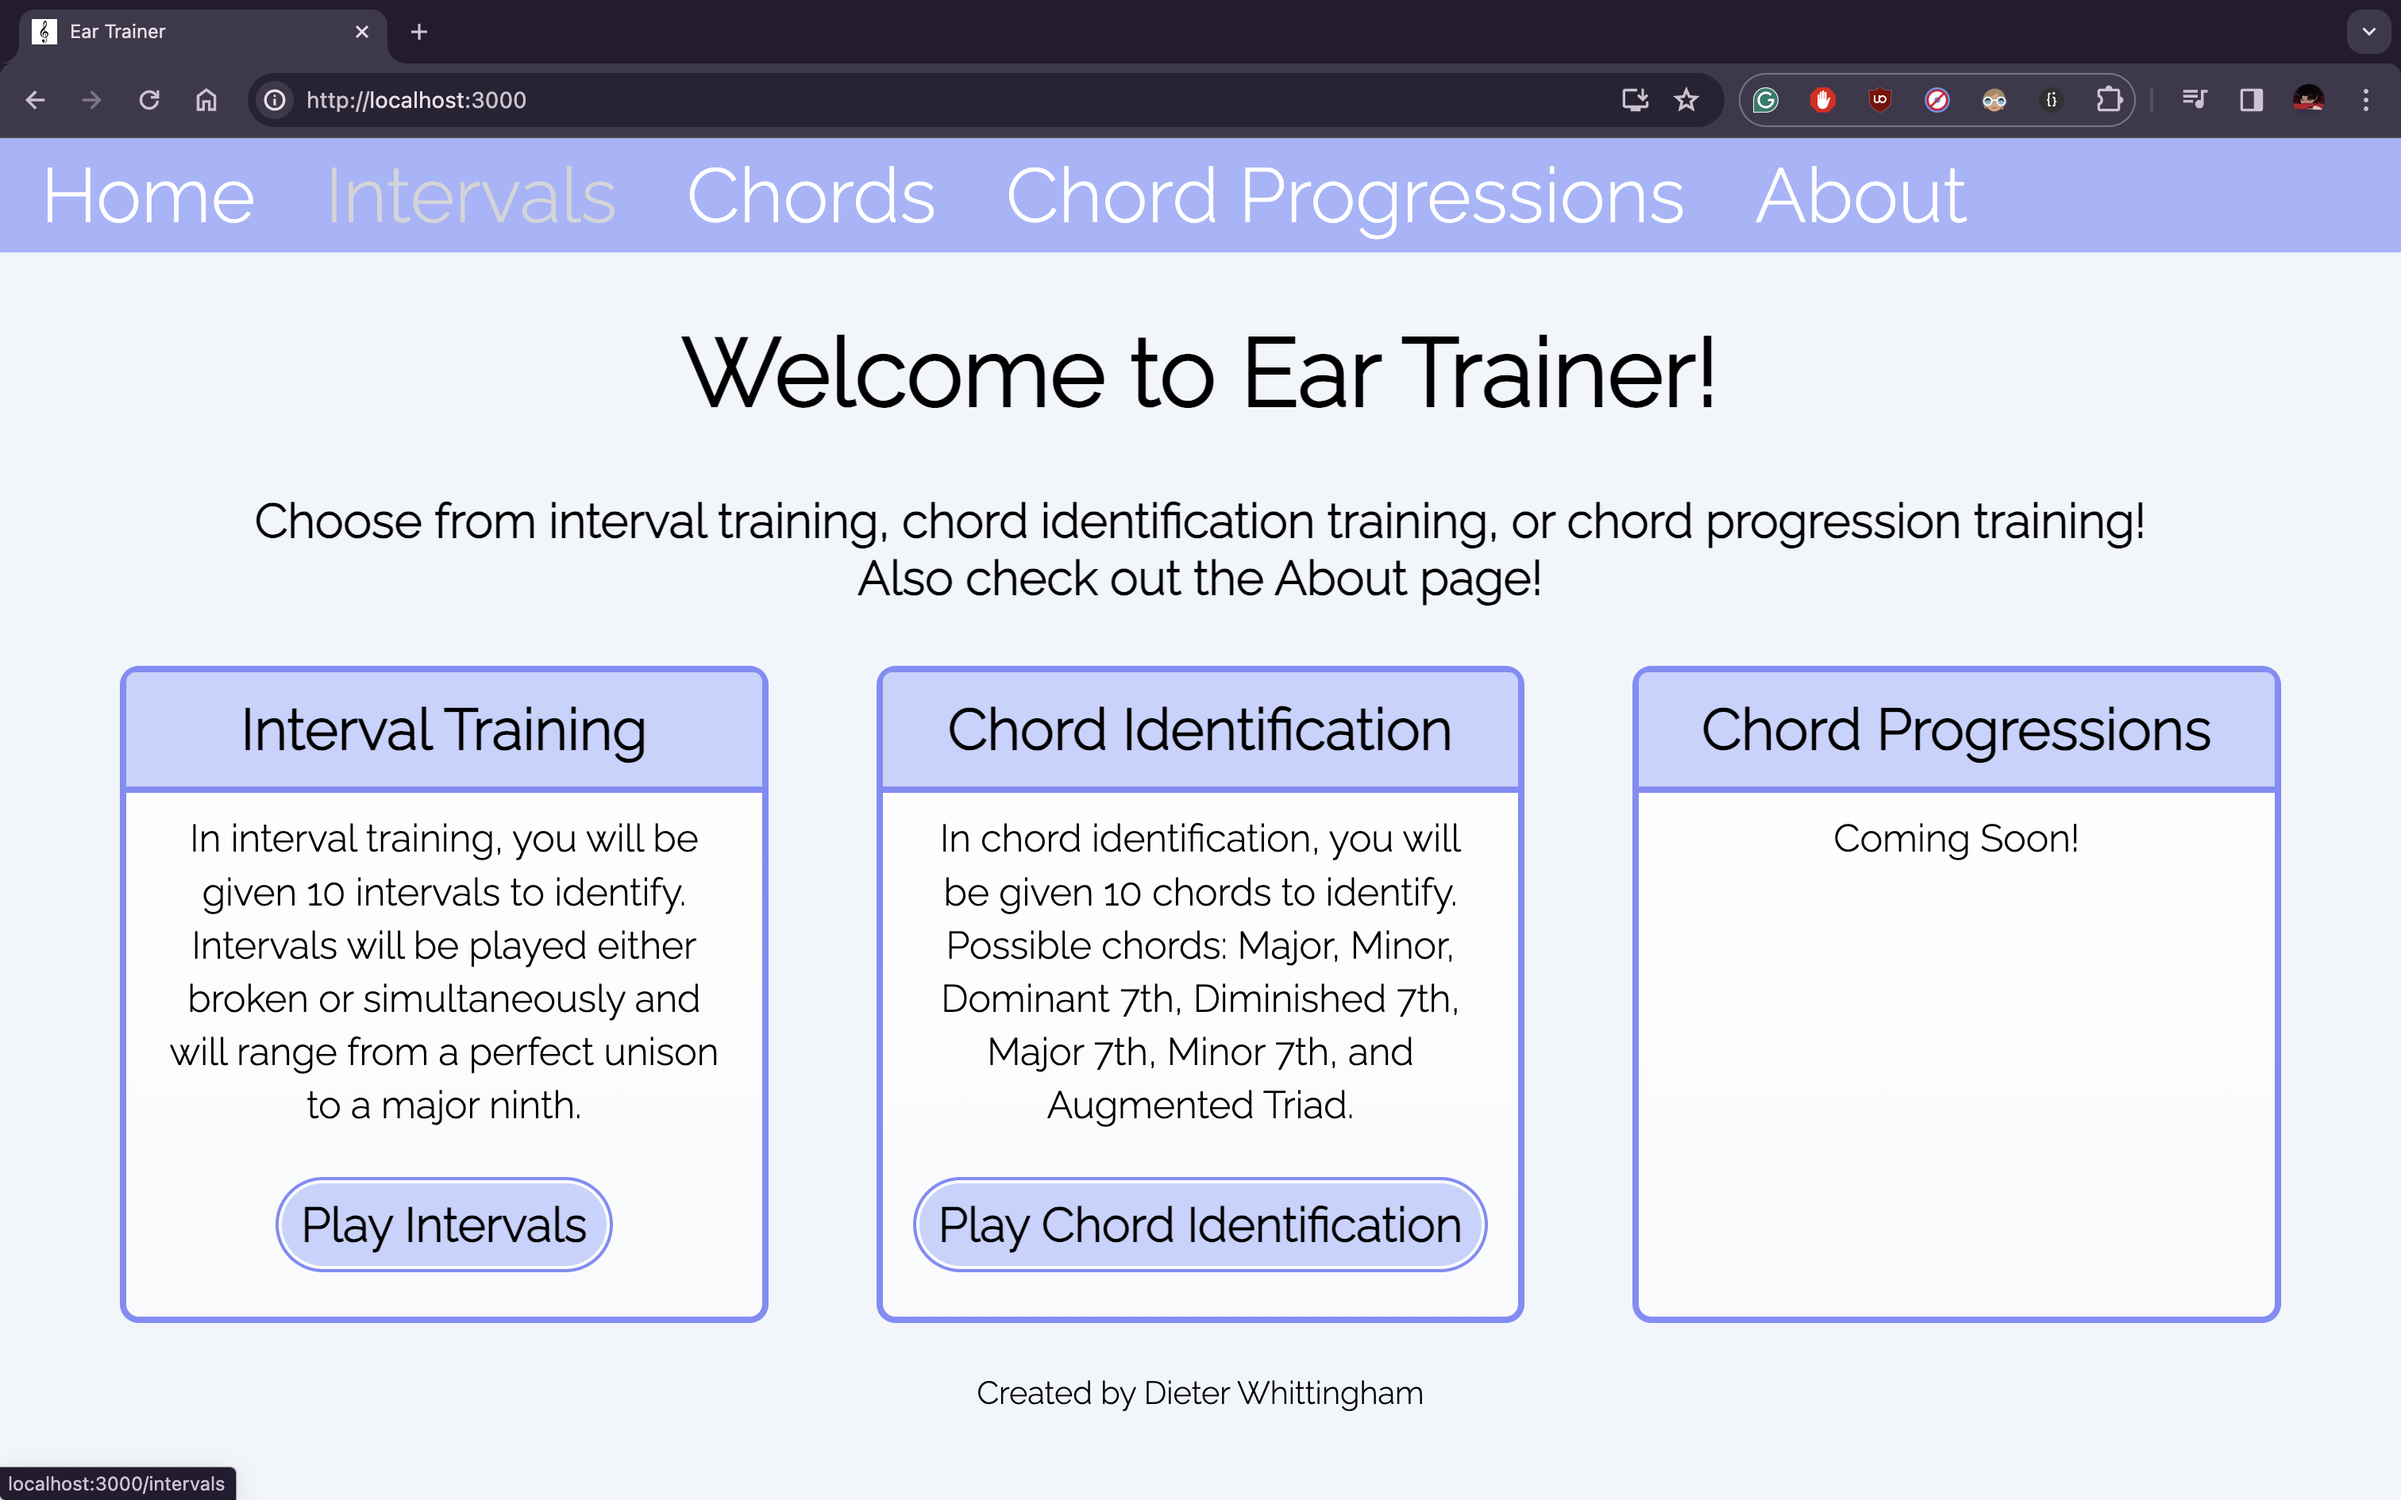
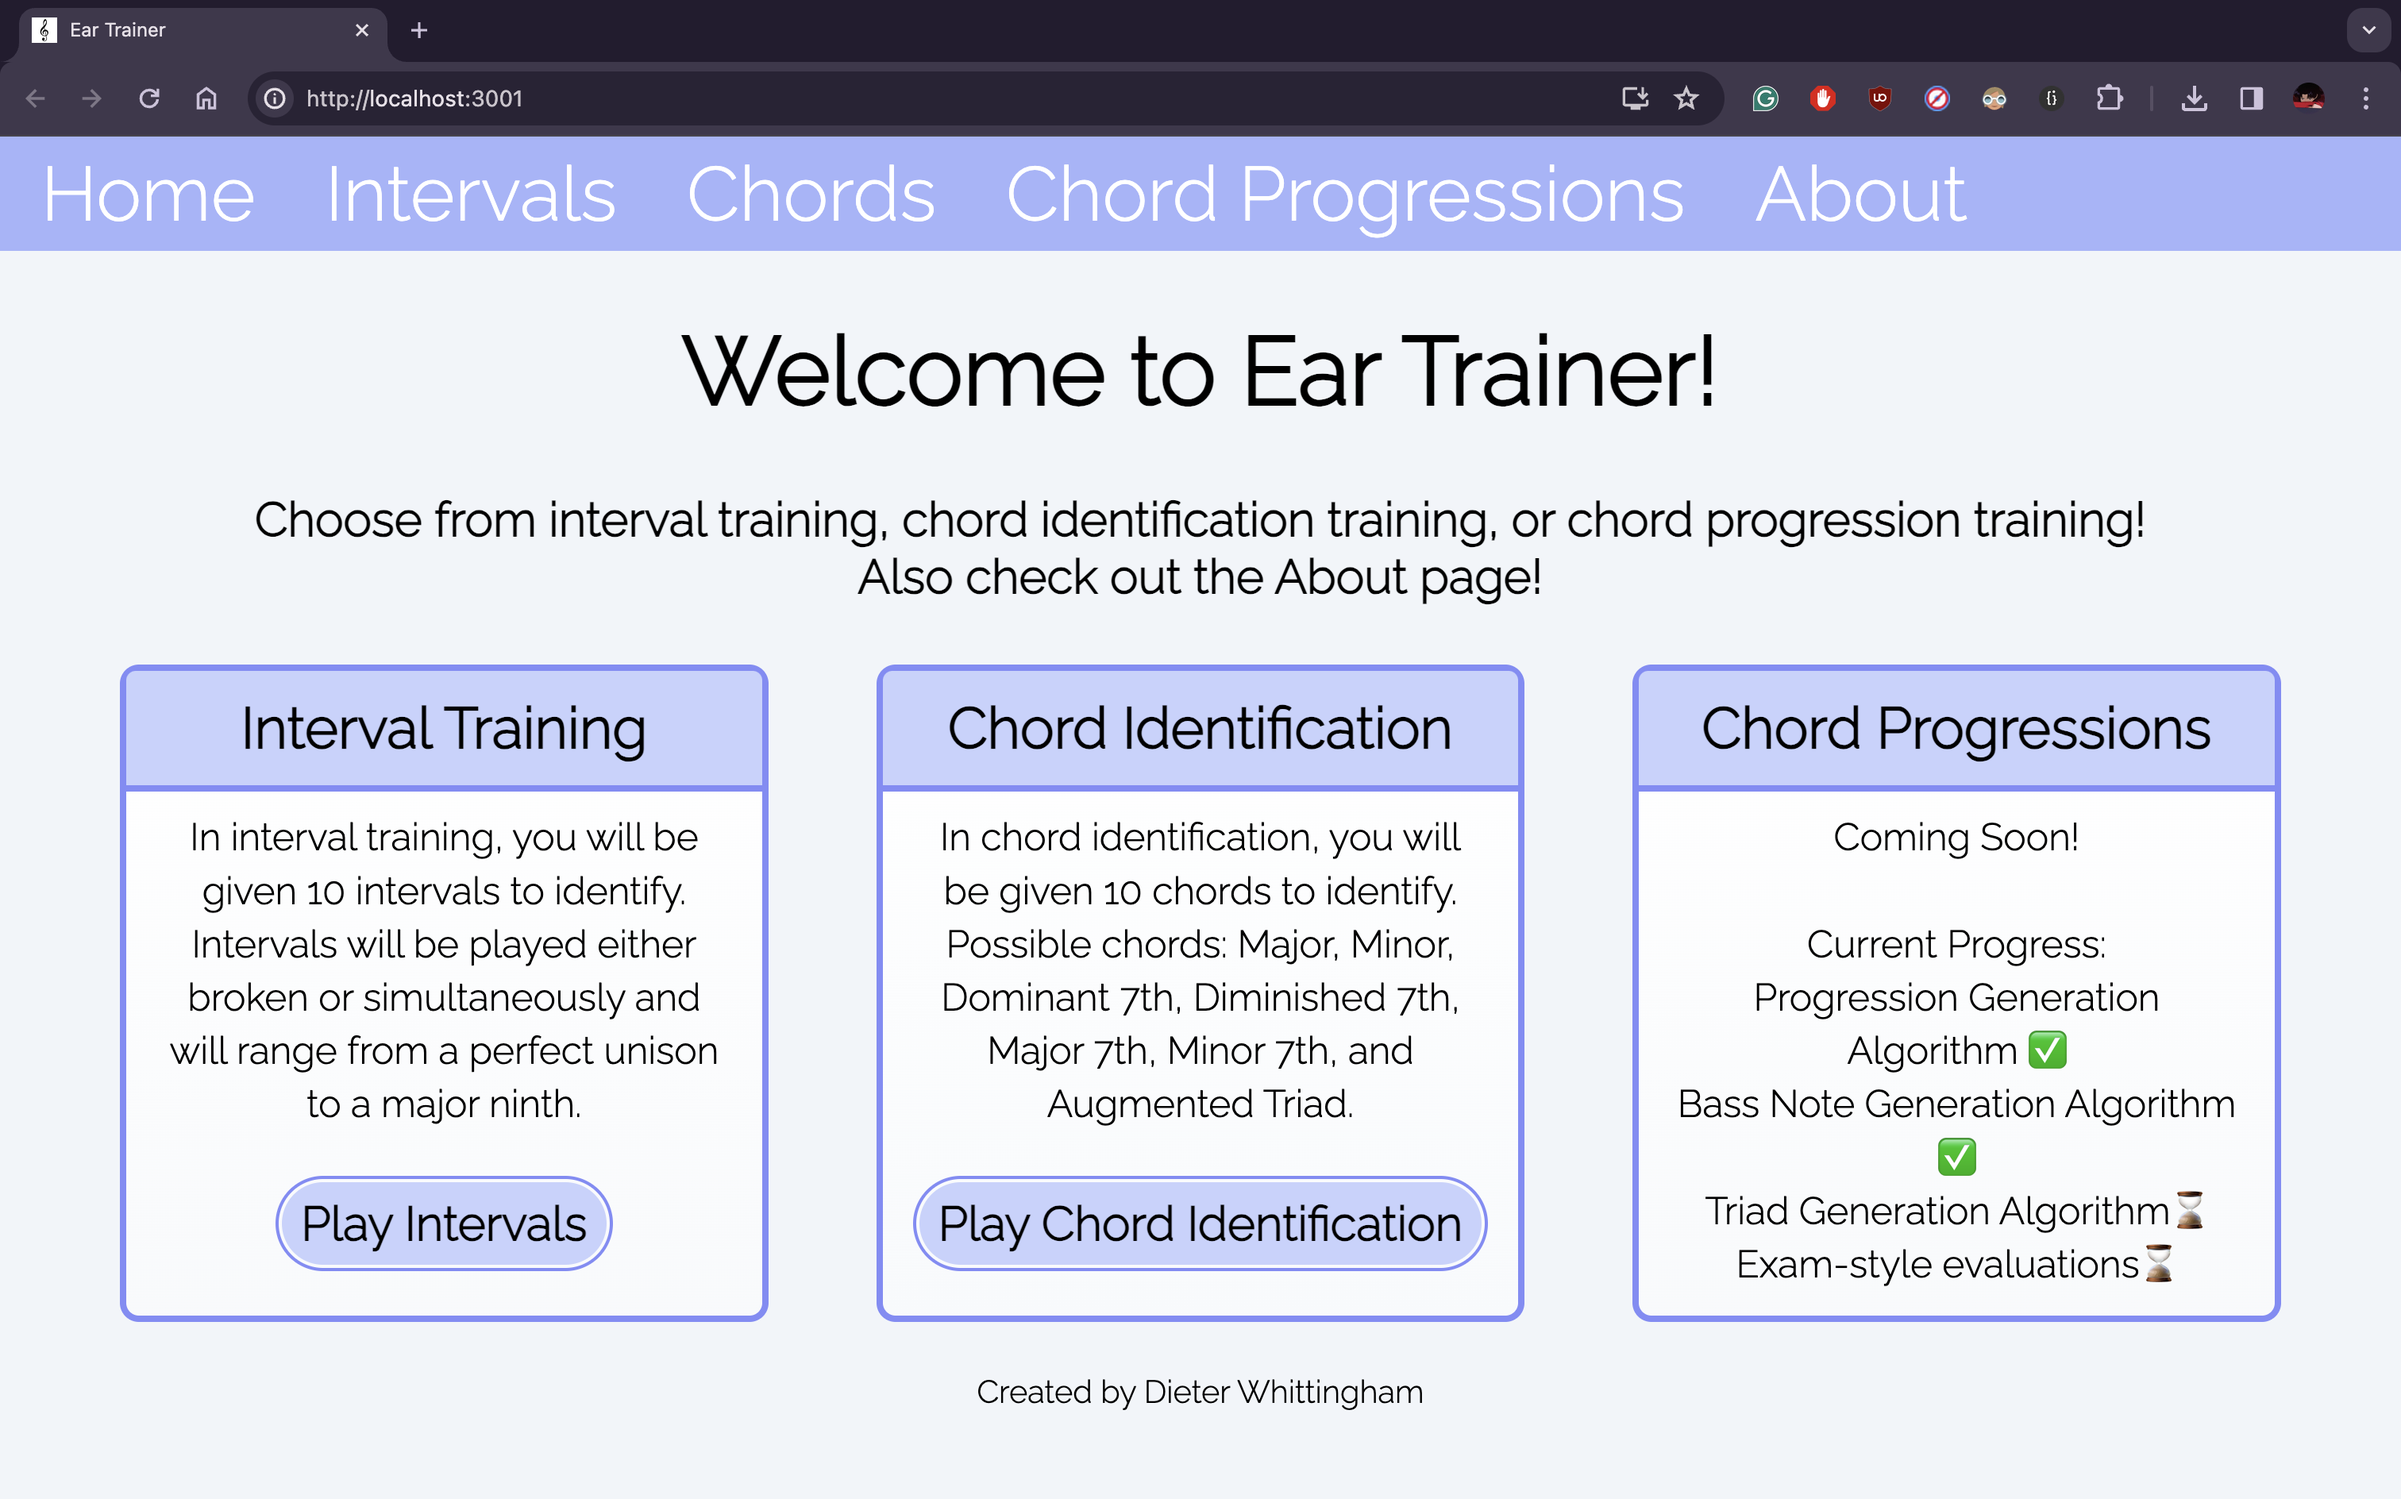
updated home page photo

diff --git a/src/pages/Home.js b/src/pages/Home.js
@@ -69,6 +69,12 @@ const Home = () => {
                     Chord Progressions</h3>
                 <p className={boxBodyStyle}>
                     Coming Soon!
+                    <br/><br/>
+                    Current Progress:
+                    <br/>Progression Generation Algorithm ✅
+                    <br/>Bass Note Generation Algorithm ✅
+                    <br/>Triad Generation Algorithm⌛
+                    <br/>Exam-style evaluations⌛
                 </p>
                 <Link to='/chordProgressions' >
                     {/*<button>Play Chord Progressions</button>*/}
